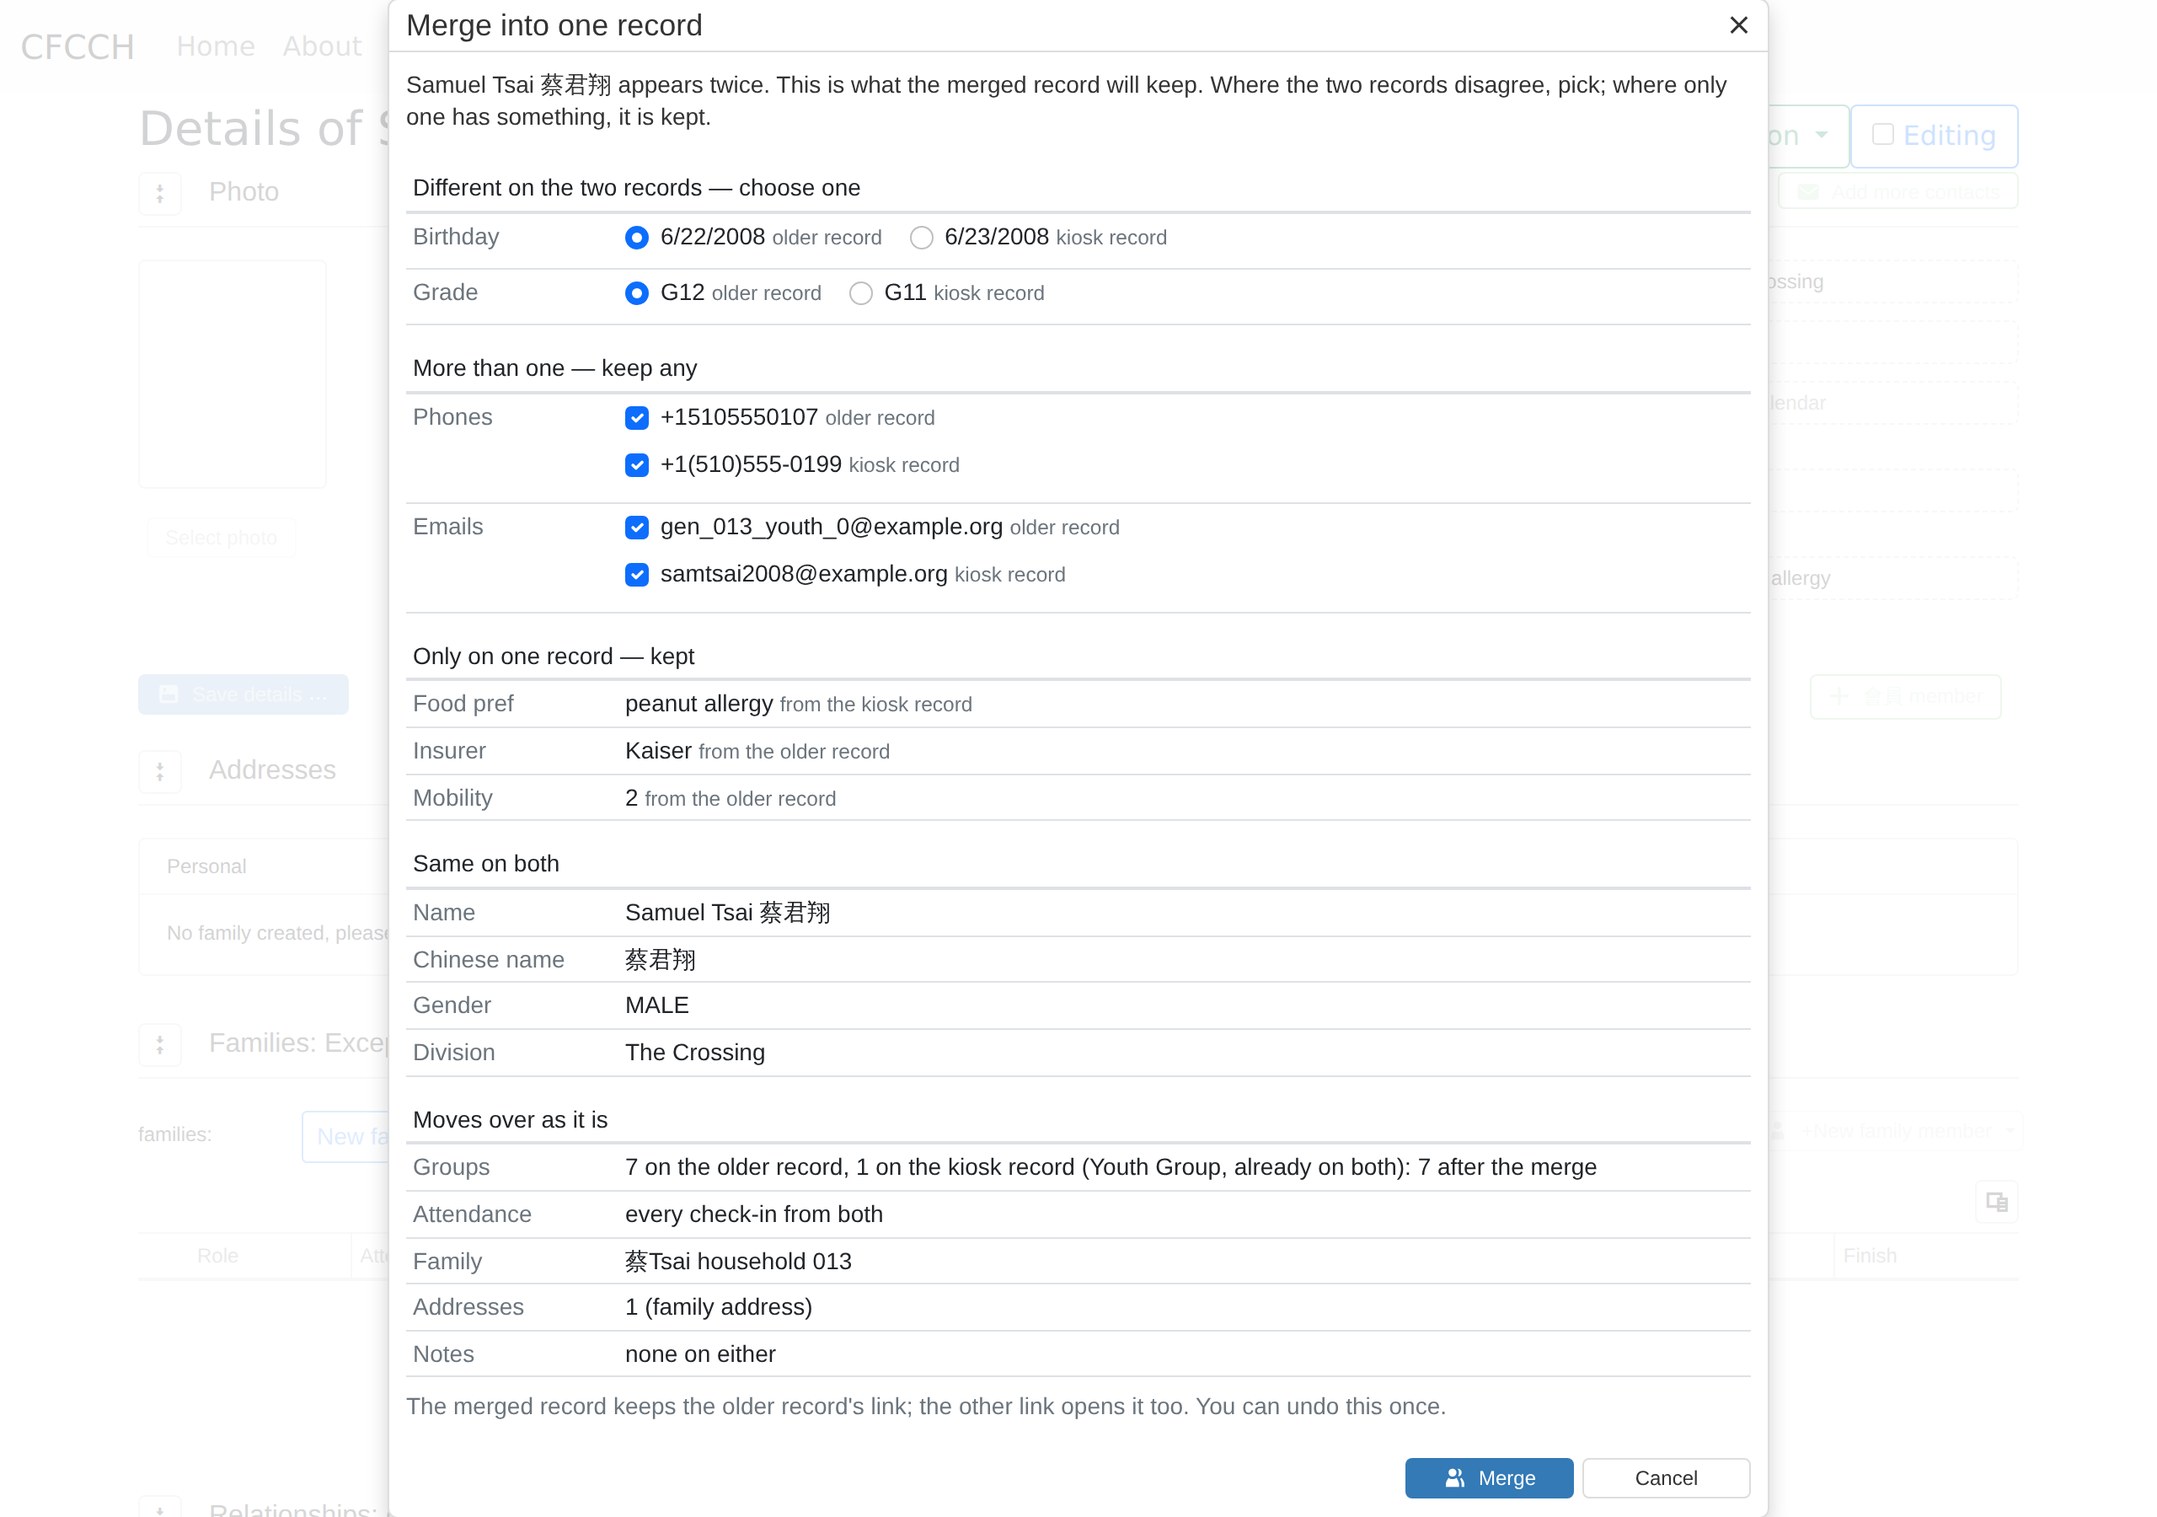
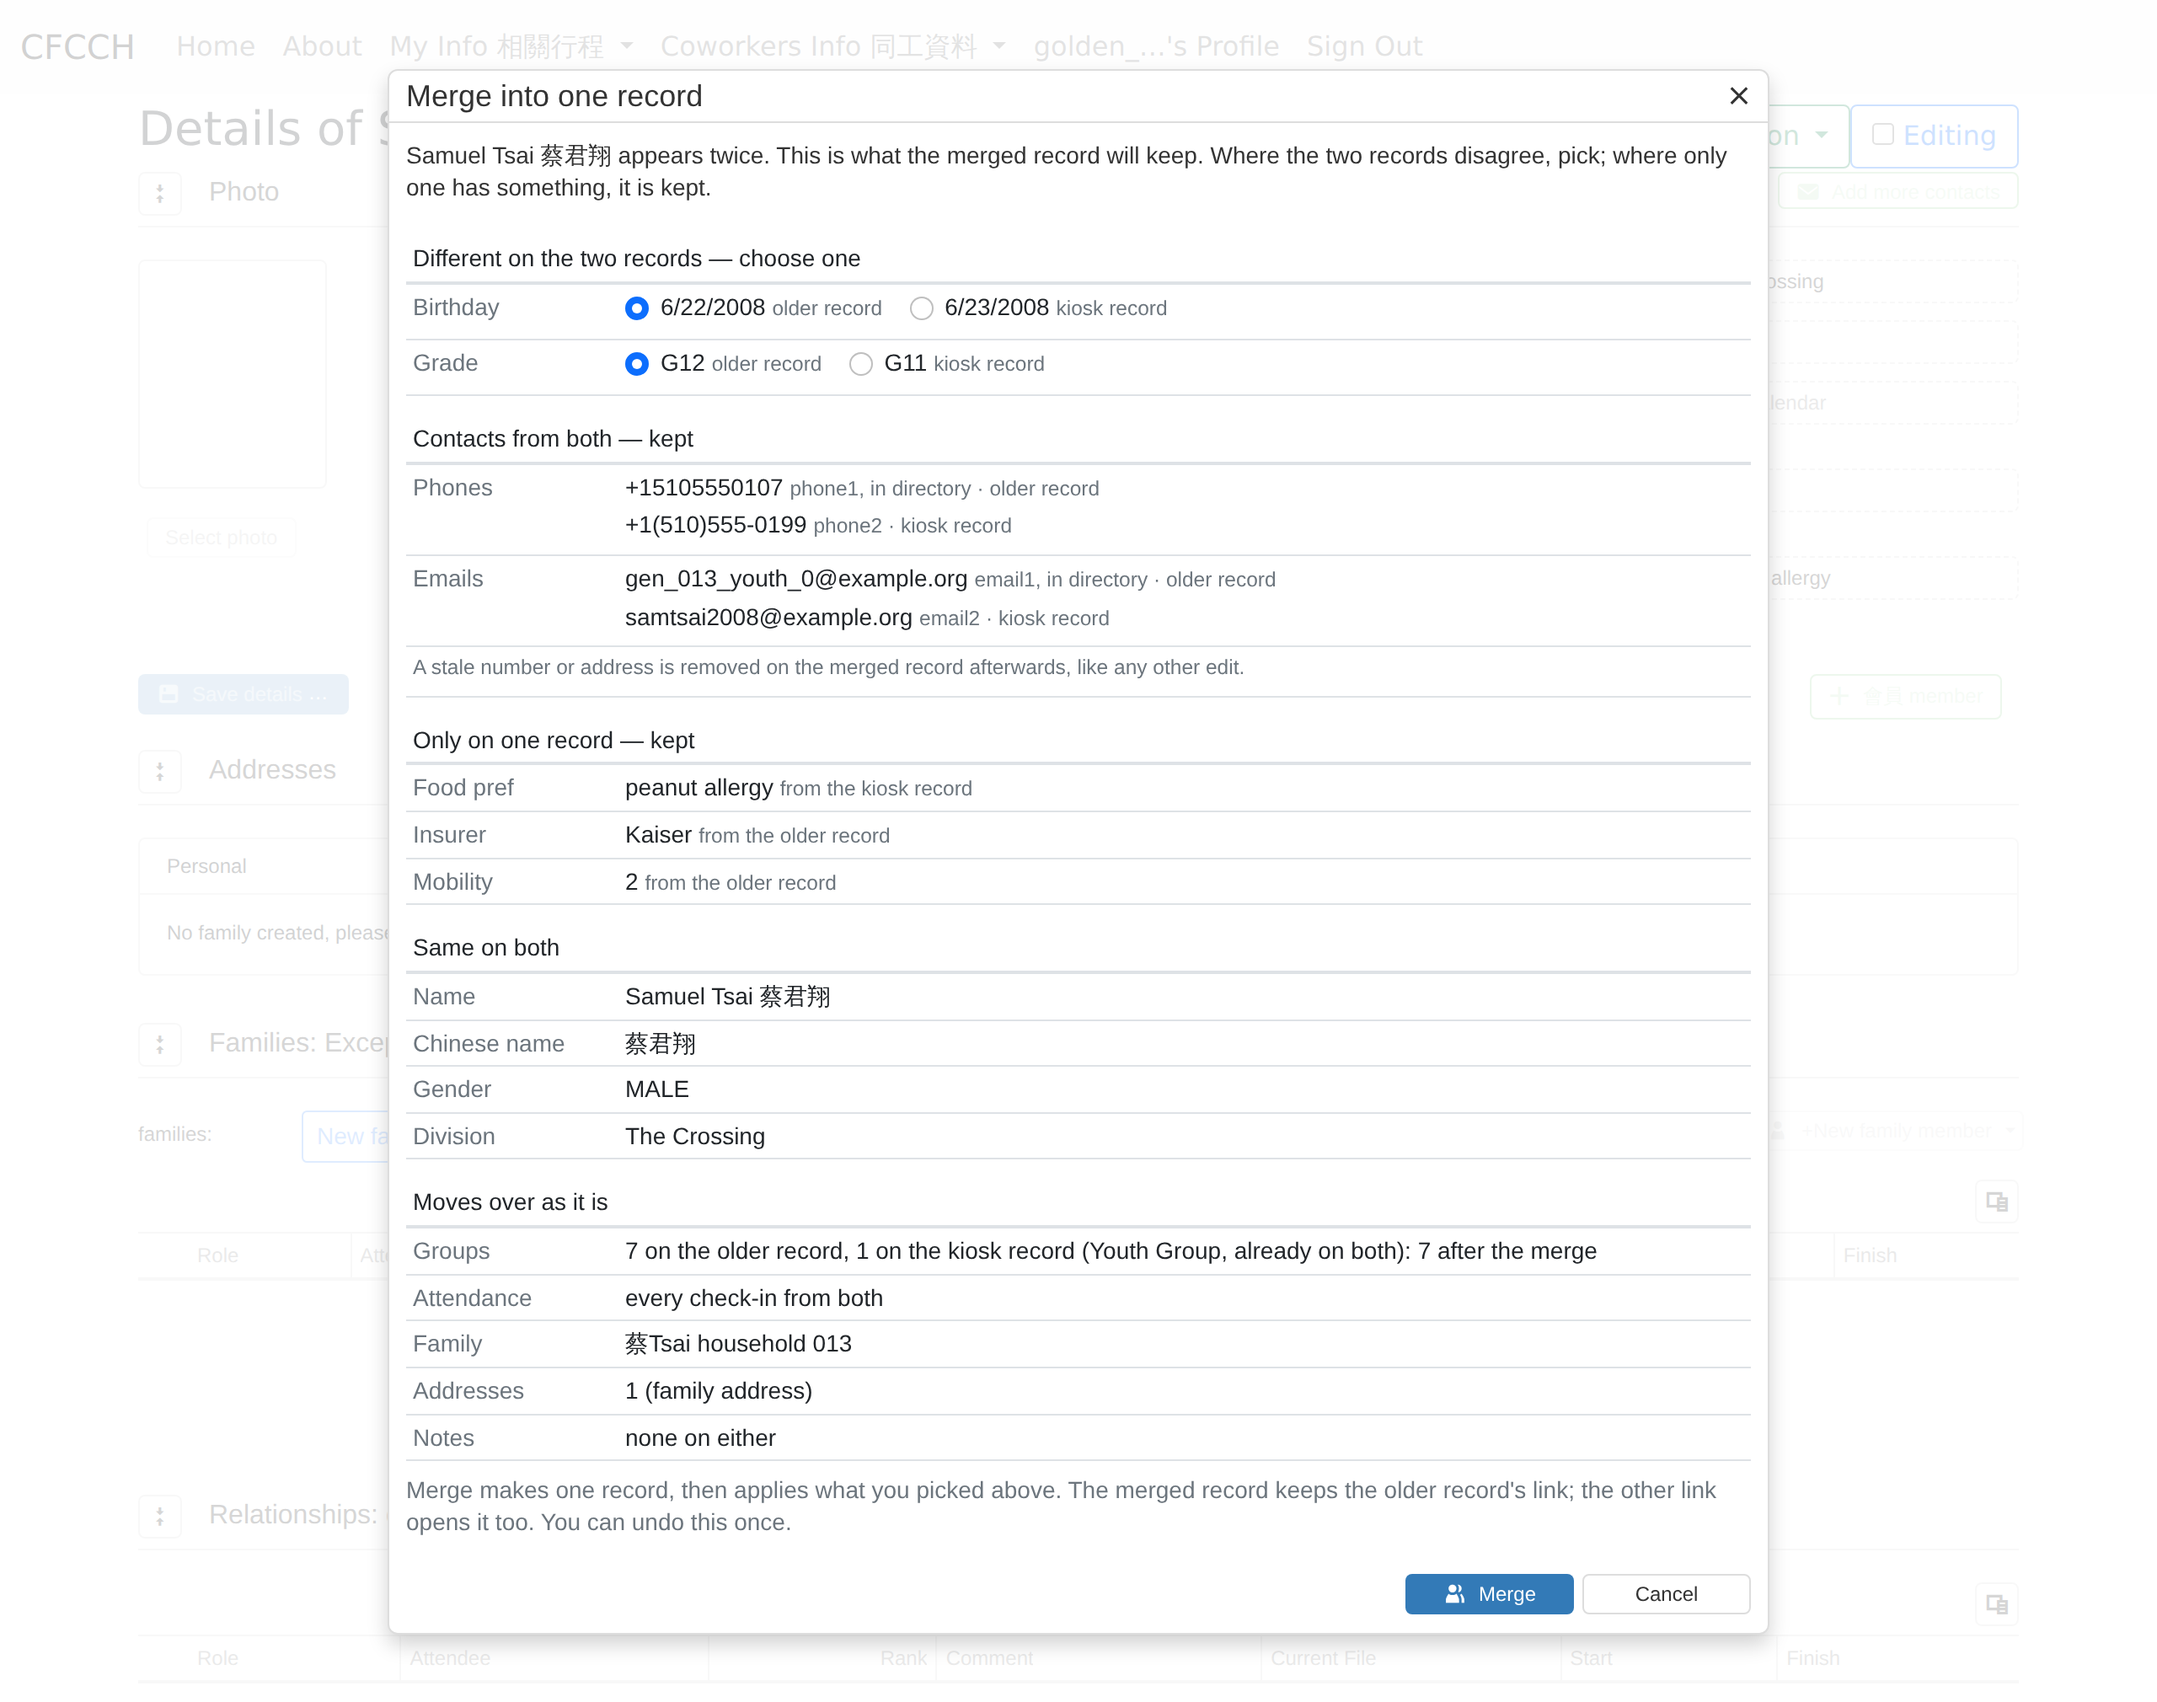
Walkthrough: contacts are kept from both, the merge takes no choices
Claude-Session: https://claude.ai/code/session_01YFD44CaTrM8Wi5fp2sbGyM

diff --git a/docs/merge-walkthrough/merging-two-records.md b/docs/merge-walkthrough/merging-two-records.md
@@ -31,14 +31,14 @@ Type a name. Each match shows birthday, family and phone, so the right one is ea
 One screen shows the merged record before it exists, field by field, in five groups:
 
 - **Different on the two records: choose one.** Birthday and grade disagree, so each shows both values with a radio. The older record's value is preselected; one click swaps it.
-- **More than one: keep any.** Phones and emails can hold several values, so both records' values are listed with a checkbox each, all ticked. Untick what is wrong or stale.
+- **Contacts from both: kept.** Every phone, email and other contact from both records is kept, each shown with the slot it lands in; phone1 and email1 are the ones printed in the directory. A stale one is removed afterwards, like any other edit.
 - **Only on one record: kept.** The peanut allergy from the kiosk record and the insurer from the older record are kept as they are, and the screen says which record each came from.
 - **Same on both.** Name, gender, division. Listed so you can see the two really are one person.
 - **Moves over as it is.** Groups, attendance, family, addresses, notes. Counted, never chosen.
 
-One sentence at the bottom says that the merged record keeps the older record's link, that the other link opens it too, and that the merge can be undone once.
+One sentence at the bottom says that Merge makes one record and then applies what you picked, that the merged record keeps the older record's link, that the other link opens it too, and that the merge can be undone once.
 
-![A dialog titled Merge into one record listing the fields in five groups with radios, checkboxes, and a Merge button and a Cancel button](04-confirm.png)
+![A dialog titled Merge into one record listing the fields in five groups with radios for the two differences, the contacts kept with their slots, and a Merge button and a Cancel button](04-confirm.png)
 
 ### 5. Afterwards, one record says so
 
@@ -52,7 +52,7 @@ Anyone opening the other record's link lands here too, with one extra sentence.
 
 ### 6. Undo, once
 
-Undo puts both records back as they were before the merge, including the details you chose between. Anything added since the merge stays on this record.
+Undo puts both records back as they were before the merge. Groups, attendance and family added since stay on the record; details edited since, the picks included, go back to what they were.
 
 ![A dialog titled Undo this merge? with an Undo merge button](06-undo-confirm.png)
 
@@ -74,11 +74,12 @@ The same merge screen with the same words and the same groups. Since you ticked 
 
 ## What stays simple
 
-- No primary and no secondary. You see the merged record before it exists and decide it, field by field.
-- Only real differences ask a question. Same values, values on one record only, and everything that moves over are shown, not asked.
+- No primary and no secondary. You see the merged record before it exists and decide it where the two records differ.
+- Only real differences ask a question. Same values, values on one record only, contacts from both, and everything that moves over are shown, not asked.
+- A merge never drops a contact. Every phone, email and other contact from both records is kept; removing a stale one is an ordinary edit afterwards.
 - Everything else moves: groups, attendance, family, notes, addresses.
 - The merged record keeps the older record's link. The other link keeps working because it opens the merged record.
-- Undo once, from the merged record's page. Both records come back as they were, chosen details included.
-- One screen, used from the page and from the grid.
+- Undo once, from the merged record's page. Both records come back as they were before the merge, details edited since included.
+- One screen, used from the page and from the grid. Behind it, the merge itself takes no choices; your picks are the same edit the record's own form makes.
 
 Screens captured from attendees32 running the golden test data at 1280 pixels wide, with the new controls drawn into the live pages. The second Samuel Tsai was added for this walkthrough.
